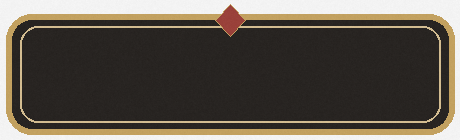
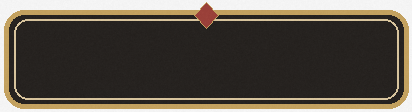
release: 0.3.7（拆合虚无、去手牌上限、移除卡面补丁、兼容文档）

Changed region(s): [[0.0, 0.0268, 1.0, 0.9911]]

diff --git a/src/main/java/zixiu/ui/DeferredCardInsert.java b/src/main/java/zixiu/ui/DeferredCardInsert.java
@@ -27,9 +27,17 @@ public final class DeferredCardInsert implements PostUpdateSubscriber {
     private static int quiet = 0;
 
     public static void enqueue(AbstractCard card) {
+        // 不设上限：合字结果必须全部落地，否则材料已烧、字却没了。
+        // 求解器侧的重复调用由它自己的沙盒隔离处理。
         if (card != null) {
             PENDING.add(card);
         }
+    }
+
+    /** 清空待插入队列（求解器在沙盒前后调用，避免跨世界串状态）。 */
+    public static void reset() {
+        PENDING.clear();
+        quiet = 0;
     }
 
     public static int pending() {

diff --git a/src/main/java/zixiu/compat/PilotBridge.java b/src/main/java/zixiu/compat/PilotBridge.java
@@ -108,6 +108,7 @@ public final class PilotBridge {
 
         AbstractCard copy = result.makeStatEquivalentCopy();
         FusionTracker.markFresh(copy);
+        copy.isEthereal = true;
         AbstractDungeon.player.hand.addToHand(copy);
 
         HandActions.notifyFusion();
@@ -136,6 +137,7 @@ public final class PilotBridge {
             if (component == null) {
                 continue;
             }
+            component.isEthereal = true;
             AbstractDungeon.player.hand.addToHand(component);
         }
         HandActions.notifySplit();

diff --git a/src/main/java/zixiu/ui/HandActions.java b/src/main/java/zixiu/ui/HandActions.java
@@ -238,7 +238,8 @@ public final class HandActions {
             return;
         }
         card.current_x = -1000.0F * Settings.xScale;
-        // 拆出的部件即使手牌满也直接进手牌，避免玩家拆完看不到东西
+        // 拆出来的部件是虚无：回合结束自动消耗；本回合不占手牌上限
+        card.isEthereal = true;
         AbstractDungeon.effectList.add(new ShowCardAndAddToHandEffect(
                 card, (float) Settings.WIDTH / 2.0F, (float) Settings.HEIGHT / 2.0F));
     }

diff --git a/src/main/java/zixiu/actions/ChooseWordAction.java b/src/main/java/zixiu/actions/ChooseWordAction.java
@@ -59,6 +59,8 @@ public class ChooseWordAction extends AbstractGameAction {
         AbstractCard copy = card.makeStatEquivalentCopy();
         copy.current_x = -1000.0F * Settings.xScale;
         FusionTracker.markFresh(copy);
+        // 合出来的牌是虚无：回合结束自动消耗；本回合不占手牌上限
+        copy.isEthereal = true;
         AbstractDungeon.effectList.add(new ShowCardAndAddToHandEffect(
                 copy, (float) Settings.WIDTH / 2.0F, (float) Settings.HEIGHT / 2.0F));
     }

diff --git a/src/main/java/zixiu/ui/ScreenToast.java b/src/main/java/zixiu/ui/ScreenToast.java
@@ -17,6 +17,12 @@ public class ScreenToast implements PostUpdateSubscriber, PostRenderSubscriber {
     private static String message;
     private static float timer;
 
+    /** 清掉当前提示（沙盒切换时用）。 */
+    public static void reset() {
+        message = null;
+        timer = 0.0F;
+    }
+
     public static void show(String text) {
         message = text;
         timer = DURATION;

diff --git a/docs/pilot-compat.md b/docs/pilot-compat.md
@@ -54,3 +54,85 @@ zixiu | 字修(箓生) | zixiu.
 - `斗`（本回合奇数次拆解抽 2）与 `行`（回合结束既合过也拆过）依赖 `splitsThisTurn` /
   `fusionsThisTurn`，镜像时必须一起搬，否则这两件遗物的收益在沙盒里永远是 0 或错位。
 - `阵` 的格挡在回合结束才加、`皆` 的拆解治疗会改 HP，这两个都会影响同回合的斩杀线判断。
+
+## 0.3.7 起的机制变化与求解器适配
+
+**机制**
+
+- 拆、合产出的牌（部件牌与合出的成品牌）现在带**虚无**（`isEthereal = true`），回合结束若仍在手牌会被消耗。
+- 这些牌**不占本回合手牌上限**：即使手牌已有 10 张，拆/合结果仍直接进手牌。
+
+**为什么求解器会炸手牌**
+
+求解器在搜索时会反复调用 `PilotBridge.resolveSplit / resolveFusion`。这两个方法直接操作
+`AbstractDungeon.player.hand`（真实世界）。原来手牌 10 张上限把副作用挡住了；去掉上限后，
+一次搜索的几百次调用会把手牌瞬间灌满，并导致后续计划里的牌对不上。
+
+**适配结论（1.7.7 起）**
+
+- 搜索期 `AbstractDungeon.player` 本来就是镜像世界，所以不需要额外的沙盒开关或 `*Ids` 纯函数；
+  `resolveSplit` / `resolveFusion` 在镜像里执行即可。
+- 真正需要注意的只有两点：
+  1. **虚无不影响计划身份**：虚无牌当回合结束才消失，计划执行期间身份仍然有效；
+  2. **手牌可以超过上限**，由拆/合产出，求解器无需为此做任何适配。
+- 多结果已经改成「每个字一个分支」，不再走 mod 的选字界面。
+
+## 给求解器的检查清单（0.3.7）
+
+按优先级排列，逐条勾掉即可。
+
+### A. 必须镜像的静态字段
+
+- [ ] `DeferredCardInsert.PENDING`、`quiet`
+- [ ] `FusionTracker.FRESH`、`splitsThisTurn`、`fusionsThisTurn`
+- [ ] `FusionTracker.chain`、`lastWordParts` ← **连书新增，旧文档没有，漏了会算错伤害**
+- [ ] 可选：`HandActions.splitting`（只影响 UI 文案）
+
+### B. 机制口径（推演必须按这个算）
+
+- [ ] **拆/合产出的牌是虚无**（`isEthereal = true`）：回合结束若在手牌会被消耗。不要把它们当成
+      跨回合资源；计划缓存与「计划里的牌还在不在」校验都要排除虚无牌，或者执行前重读手牌。
+- [ ] **拆/合产出的牌不占手牌上限**：手牌可以超过 10 张，求解器无需为此做适配；
+      但不要用 `hand.size() <= 10` 做断言。
+- [ ] **合字支持 2～3 张材料**，不是固定 2 张。
+- [ ] **多结果必须展开成分支**：`口+木` → 呆/杏/困/束，`水+日` → 汨/沓，`口+口` → 回/吕，
+      `木+一` → 本/末/未。不要开 mod 的选字界面，直接对每个结果各生成一个分支（1.7.7 已对）。
+- [ ] **墨迹未干**：本回合合出来的牌不可拆；`FRESH` 用对象身份（IdentityHashMap）判定，
+      镜像时要连 identity 语义一起搬，不能按 `cardId` 去重。
+- [ ] **连书**：每打出一张与上一张共享至少一个部件的成品牌，`chain+1`，对所有敌人造成
+      `2 × chain` 伤害；不共享则归零。判定依赖 `chain` / `lastWordParts`。
+- [ ] **曝光**：受到的伤害 `+X`，**回合结束时 -1**（不是每次受击 -1）。多段攻击不再快速消耗层数。
+- [ ] **灼烧**：回合结束失去 X 生命，层数不递减。
+- [ ] **因**：每打出一张成品牌，对所有敌人造成「本回合合字次数」点伤害（依赖 `fusionsThisTurn`）。
+- [ ] **斗**：每回合第奇数次拆解抽 2；**行**：回合结束若既合过也拆过，下回合 +5 敏捷；
+      **都**：见上。这几件遗物都依赖本回合计数。
+
+### C. 动作空间
+
+- [ ] 合/拆是**免费且不限次数**的非卡牌动作，生成时只展开一层，靠搜索跨层，否则空间爆炸。
+- [ ] 素材组合建议按**部件多重集**去重，不要为同一组合的排列各生成一个动作。
+- [ ] `PilotBridge.resolveSplit / resolveFusion` 写的是当前 `AbstractDungeon.player.hand`；
+      求解器在 install 后的镜像窗口里调用（`Solver.expandCore` 先 `install()` 再 `Legal.apply`），
+      落点是沙盒手牌，实时手牌不变（S305/S307 每次断言）。
+
+### D. 复位协议
+
+- [ ] **不要调复位**。沙盒是「按窗口复制 + 卸载还原」，进沙盒前调 `FusionTracker.clear()` /
+      `DeferredCardInsert.reset()` 清的是**真实**的墨迹未干、计数和连书；而且沙盒必须从实时状态
+      开始（本回合合过几次、chain 是几），不是空状态。隔离由镜像负责。
+      这两个 `reset()` 只作为应急手段存在。
+- [ ] 回合切换时模组自己也会 `FusionTracker.clear()`（`TurnReset`），沙盒不要重复依赖它。
+
+### E. 不要镜像/不要碰的
+
+- [ ] `ZixiuConfig.isolation`：只读配置，影响遗物进入哪个池，与战斗推演无关。
+- [ ] `JiuZiBei.visits`：局级事件计数，搜索期间不要递增。
+- [ ] `PoolDiagnostics.dumpedAfterInit`：开局自检，写一次文件。
+- [ ] `ScreenToast` / `SplitPreview` / `HandActionButton` 是纯 UI，推演时可以整体跳过。
+- [ ] `InscriptionRewardPatch`（残碑）挂在 `CombatRewardScreen.setupItemReward`，在战斗推演之外。
+
+### F. 已知坑
+
+- [ ] 手牌瞬间涨到 100+：`PENDING` 未镜像（1.7.7 已修）。
+- [ ] 「计划里的牌不在手上了」：虚无牌回合结束消失，或执行过程中手牌被拆合改动——执行前重读。
+- [ ] 沙盒里算出的合字收益偏小/偏大：先查 `fusionsThisTurn` 与 `chain` 有没有镜像。

diff --git a/CHANGELOG.md b/CHANGELOG.md
@@ -1,5 +1,25 @@
 # 更新日志
 
+## 0.3.7
+
+**拆合产出**
+
+- 拆、合产出的牌（部件与合出的字）改为**虚无**：回合结束若仍在手牌会被消耗。
+- 这些牌**不占本回合手牌上限**：手牌已满 10 张也直接进手。
+- 去掉上一版加的队列限流（合出第 7 个字会静默丢结果）；合字结果现在必然全部落地。
+
+**卡面**
+
+- 删除自绘匾额与稀有度角饰的渲染补丁（会牵连地图节点渲染，导致精英图标异常），
+  卡牌回到原版外观；匾额不再绘制。
+- 九字碑事件图改为程序合成的 3×3 九字遗物（临兵斗者皆阵列前行）。
+
+**求解器兼容**
+
+- `docs/pilot-compat.md` 补全静态状态清单（含连书新增的 `chain` / `lastWordParts`），
+  并按 1.7.8 的实现口径校正：不需复位、虚无进指纹、`resolve*` 在镜像窗口内调用。
+- `DeferredCardInsert.reset()` / `ScreenToast.reset()` 作为应急手段保留。
+
 ## 0.3.6
 
 - 战斗立绘换成新绘全身像（持大笔、墨袍，透明底 272×320）；素材走「绿幕生成 + 抠色」流程。
